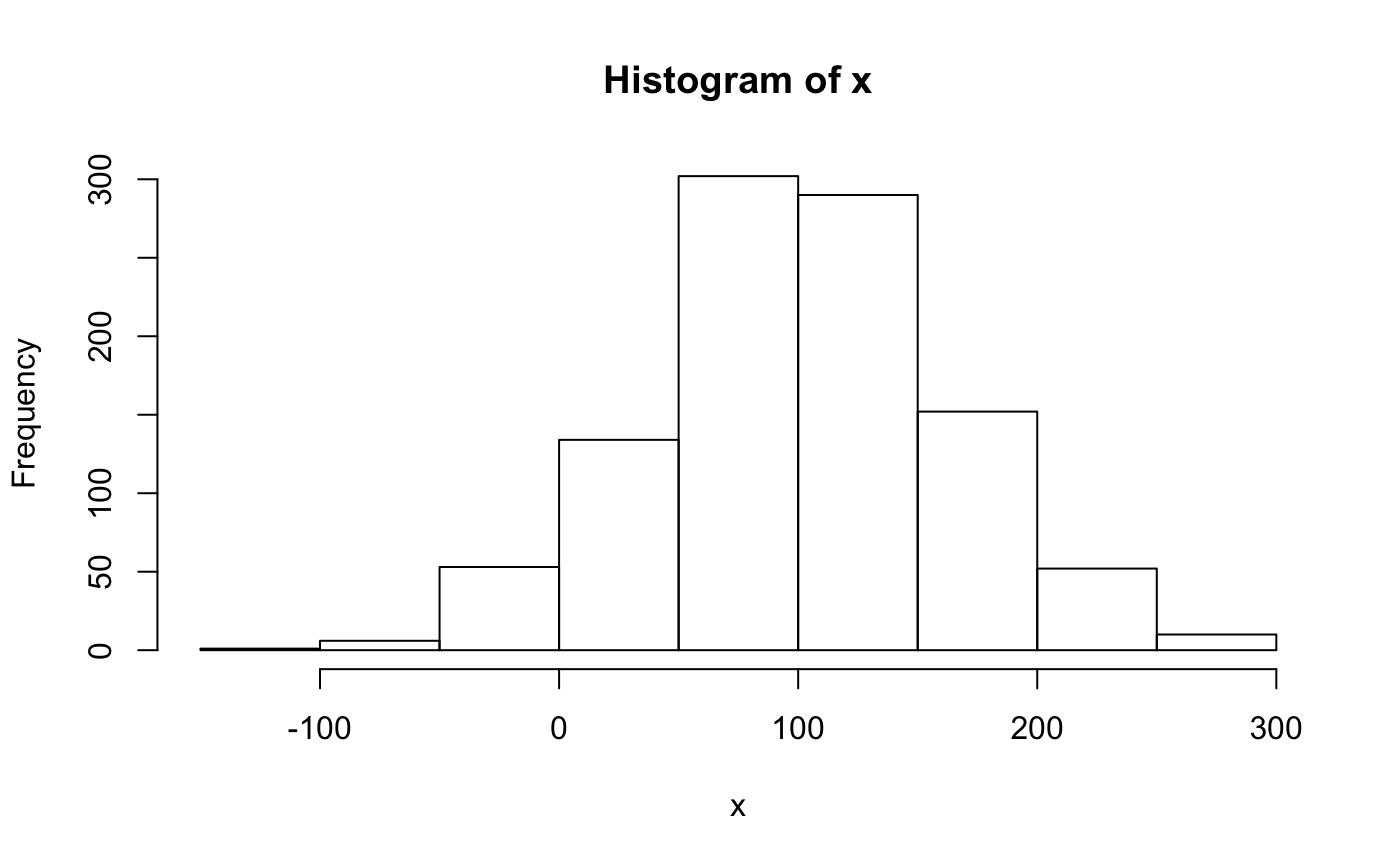
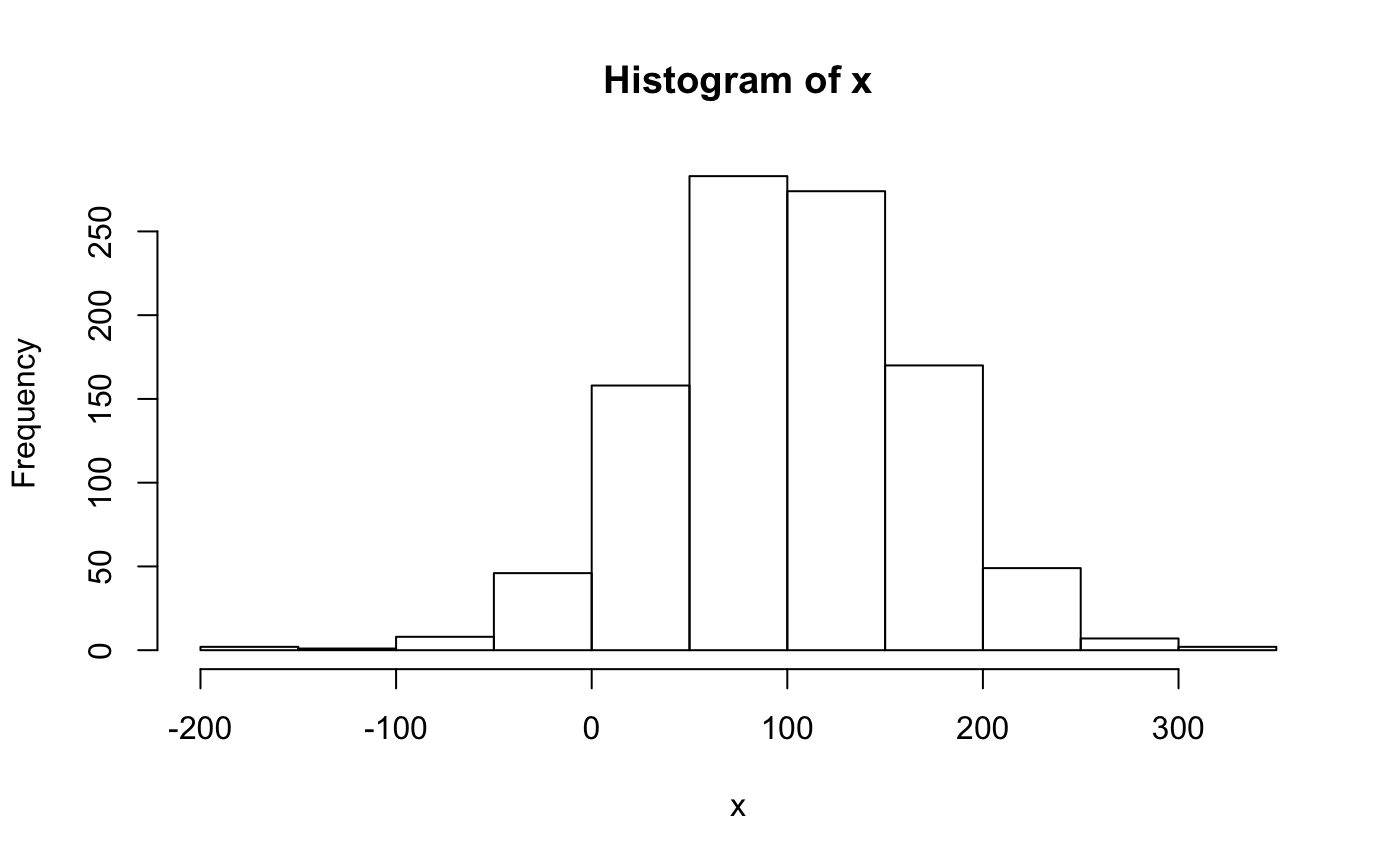
re build site

diff --git a/docs/articles/conflictPower-vignette.html b/docs/articles/conflictPower-vignette.html
@@ -90,7 +90,7 @@
 <p>The c_score function samples the specified number of RTs from each distribution, computes the mean for each condition (conflict and no conflict), and returns the difference (conflict - no conflict).</p>
 <div class="sourceCode" id="cb2"><pre class="sourceCode r"><code class="sourceCode r"><a class="sourceLine" id="cb2-1" title="1"> <span class="kw"><a href="../reference/c_score.html">c_score</a></span>(<span class="dt">c_nmst=</span> <span class="kw"><a href="https://www.rdocumentation.org/packages/base/topics/c">c</a></span>(<span class="dt">n=</span><span class="dv">10</span>, <span class="dt">mu=</span><span class="dv">600</span>, <span class="dt">sigma=</span><span class="dv">100</span>, <span class="dt">tau=</span><span class="dv">100</span>),</a>
 <a class="sourceLine" id="cb2-2" title="2">         <span class="dt">nc_nmst=</span> <span class="kw"><a href="https://www.rdocumentation.org/packages/base/topics/c">c</a></span>(<span class="dt">n=</span><span class="dv">10</span>, <span class="dt">mu=</span><span class="dv">500</span>, <span class="dt">sigma=</span><span class="dv">100</span>, <span class="dt">tau=</span><span class="dv">100</span>))</a>
-<a class="sourceLine" id="cb2-3" title="3"><span class="co">#&gt; [1] 71.79277</span></a></code></pre></div>
+<a class="sourceLine" id="cb2-3" title="3"><span class="co">#&gt; [1] 26.72756</span></a></code></pre></div>
 </div>
 <div id="c_scores" class="section level3">
 <h3 class="hasAnchor">
@@ -107,9 +107,9 @@
 <a class="sourceLine" id="cb3-8" title="8">                       <span class="dt">sigma=</span><span class="dv">100</span>, </a>
 <a class="sourceLine" id="cb3-9" title="9">                       <span class="dt">tau=</span><span class="dv">100</span>))</a>
 <a class="sourceLine" id="cb3-10" title="10"><span class="kw"><a href="https://www.rdocumentation.org/packages/base/topics/mean">mean</a></span>(x)</a>
-<a class="sourceLine" id="cb3-11" title="11"><span class="co">#&gt; [1] 101.6161</span></a>
+<a class="sourceLine" id="cb3-11" title="11"><span class="co">#&gt; [1] 100.6734</span></a>
 <a class="sourceLine" id="cb3-12" title="12"><span class="kw"><a href="https://www.rdocumentation.org/packages/stats/topics/sd">sd</a></span>(x)</a>
-<a class="sourceLine" id="cb3-13" title="13"><span class="co">#&gt; [1] 63.17749</span></a>
+<a class="sourceLine" id="cb3-13" title="13"><span class="co">#&gt; [1] 64.57541</span></a>
 <a class="sourceLine" id="cb3-14" title="14"><span class="kw"><a href="https://www.rdocumentation.org/packages/graphics/topics/hist">hist</a></span>(x)</a></code></pre></div>
 <p><img src="conflictPower-vignette_files/figure-html/unnamed-chunk-3-1.png" width="700"></p>
 </div>

diff --git a/docs/reference/index.html b/docs/reference/index.html
@@ -139,12 +139,6 @@
           <p><code><a href="c_scores.html">c_scores()</a></code> </p>
         </td>
         <td><p>Estimate conflict scores for n subjects</p></td>
-      </tr><tr>
-        
-        <td>
-          <p><code><a href="hello.html">hello()</a></code> </p>
-        </td>
-        <td><p>Hello, World!</p></td>
       </tr>
     </tbody>
     </table>
